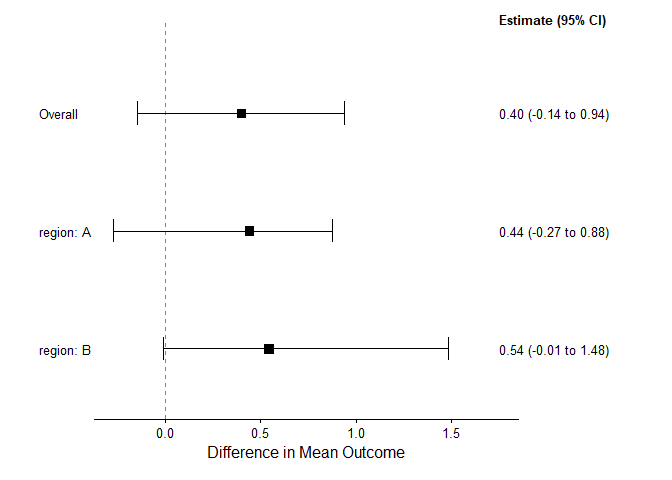
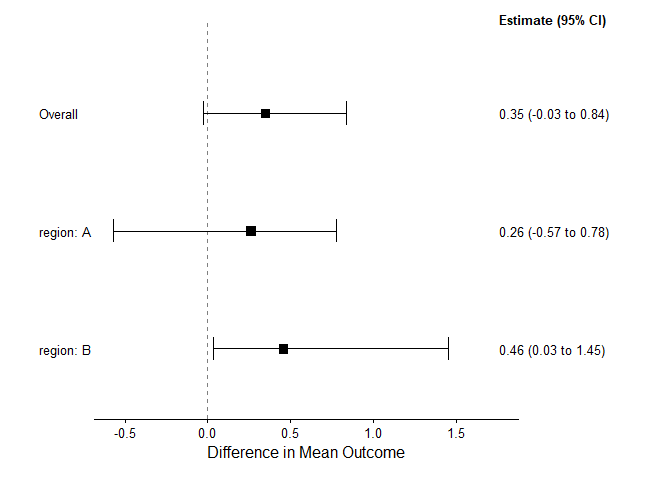
- Install package from openpharma

diff --git a/README.md b/README.md
@@ -20,7 +20,7 @@ GitLab repository:
 
 ``` r
 # install.packages("remotes") 
-remotes::install_gitlab("statistical-engineering/bonsaiforest2", host = "code.roche.com") 
+remotes::install_github("openpharma/bonsaiforest2")
 ```
 
 ## Example
@@ -73,6 +73,6 @@ plot(effect_summary) # Display plot
     #> # A tibble: 3 × 4
     #>   Subgroup  Median CI_Lower CI_Upper
     #>   <chr>      <dbl>    <dbl>    <dbl>
-    #> 1 Overall    0.399  -0.145     0.939
-    #> 2 region: A  0.440  -0.271     0.875
-    #> 3 region: B  0.544  -0.0111    1.48
+    #> 1 Overall    0.346  -0.0276    0.837
+    #> 2 region: A  0.260  -0.569     0.776
+    #> 3 region: B  0.457   0.0312    1.45
